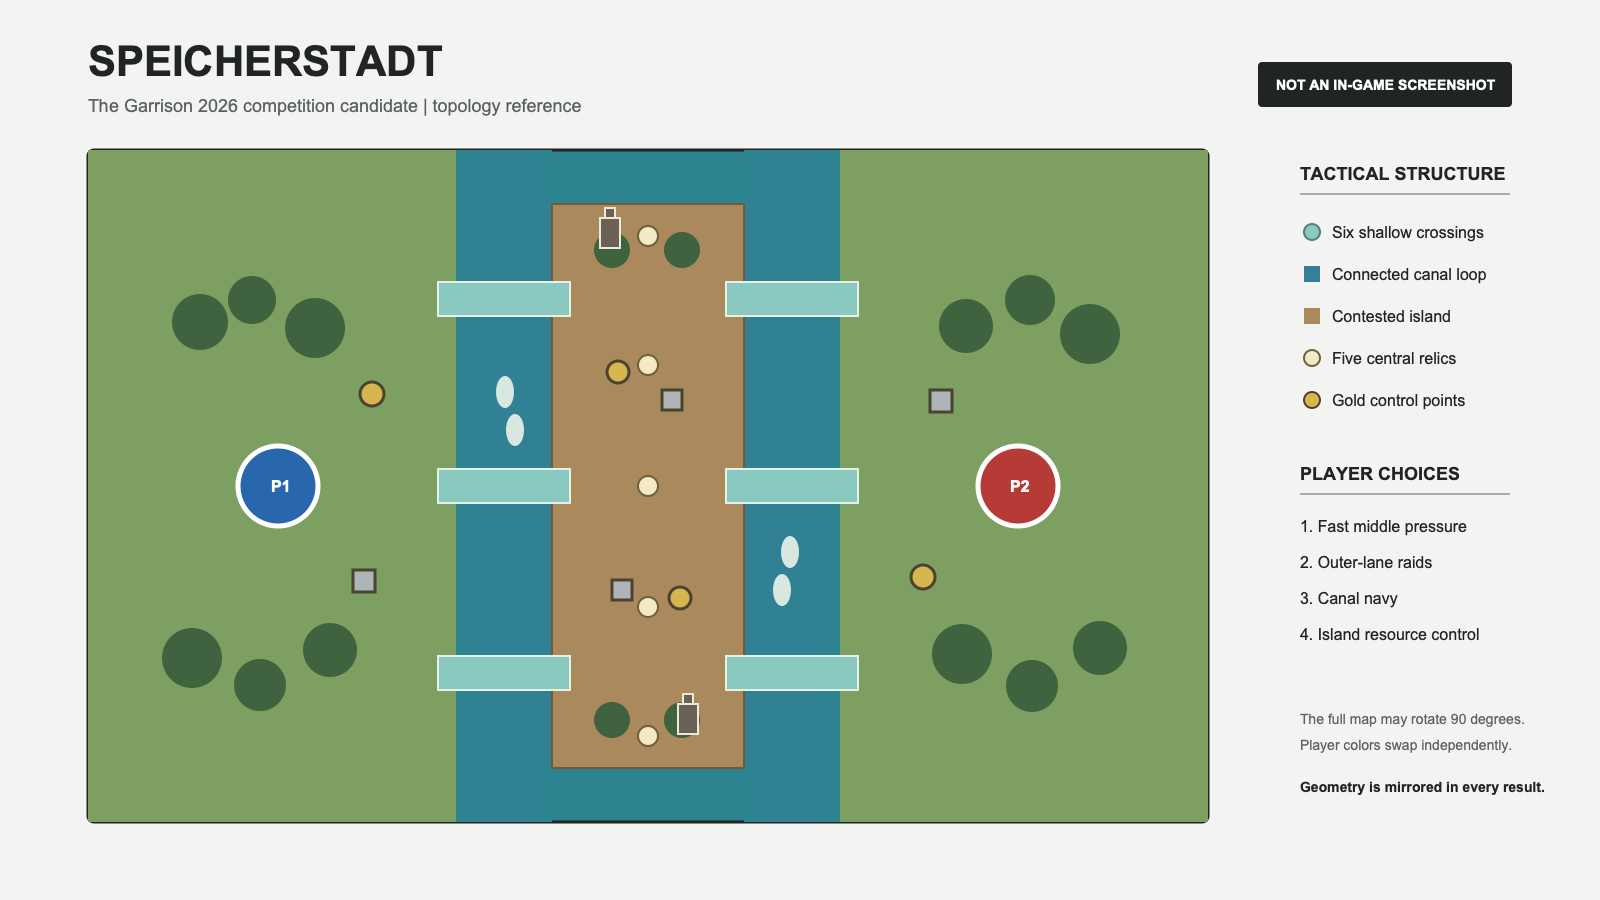
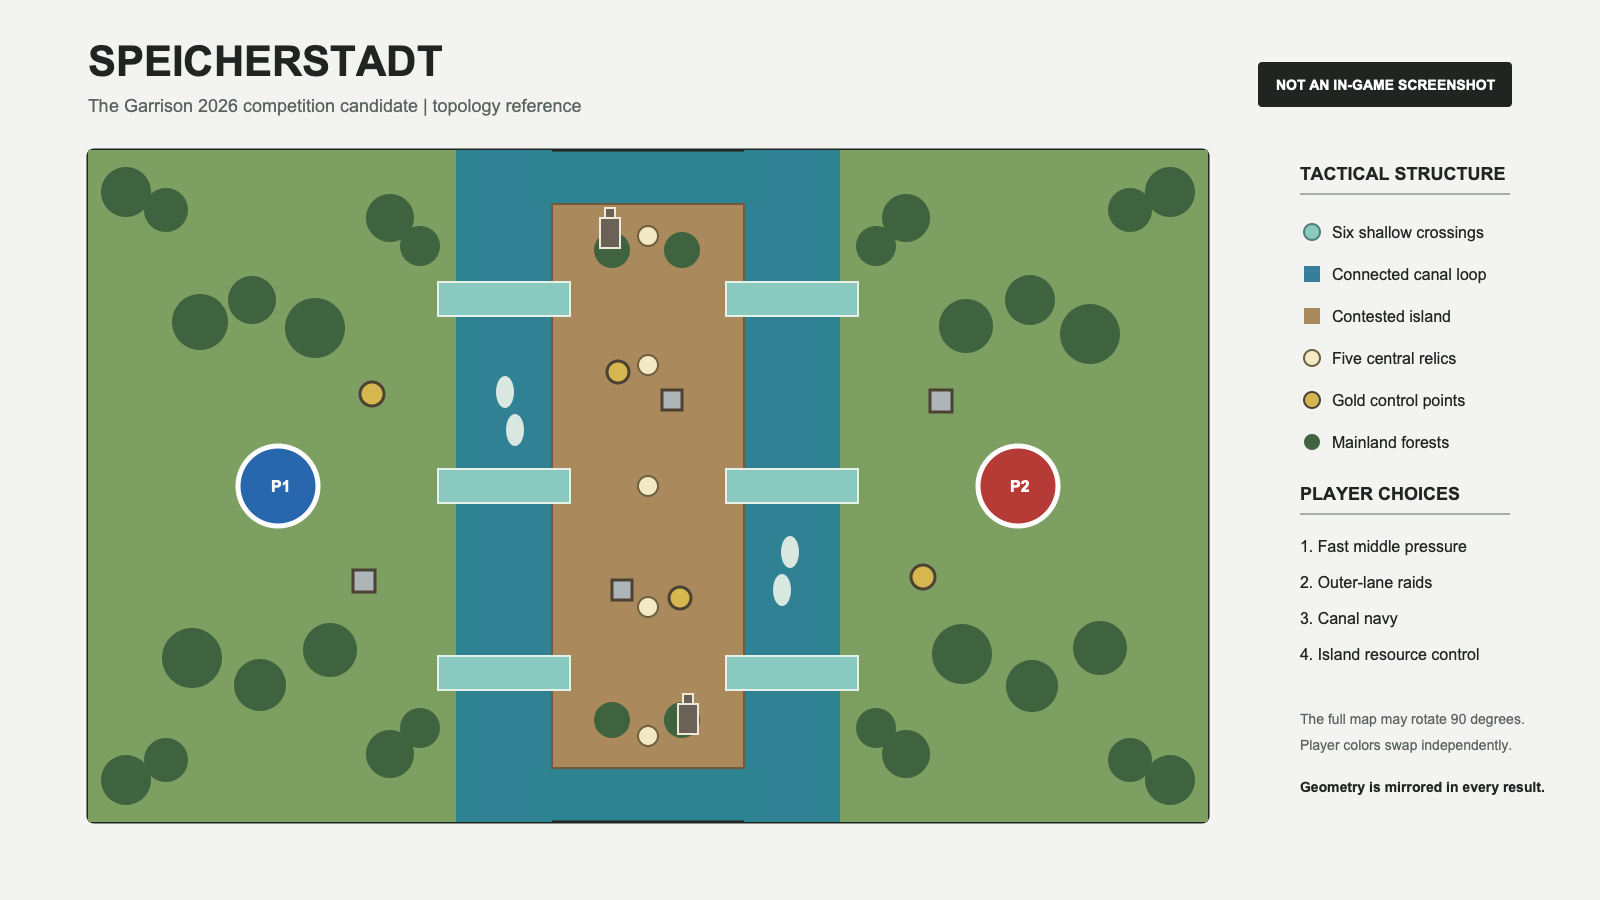
Populate the mainland with balanced forests

diff --git a/submission/validation-report.md b/submission/validation-report.md
@@ -1,18 +1,19 @@
 # Static Validation Report
 
-Candidate: Speicherstadt v0.3.0
+Candidate: Speicherstadt v0.4.0
 Checked: 2026-08-05
[2 lines of base64/hex data omitted]
 
 ## Map-Specific Validator
 
 `node tools/validate-rms.mjs` passes. It checks the section and control
 structure, exact transposed geometry, six crossing rectangles, non-overlapping
 land-origin squares, `border_fuzziness 100` on every constrained land, flat
-elevation, twelve dedicated zone-to-zone seam connections, explicit 9-villager
-start, three equal 58-tree home woodlines, mandatory five-relic placement,
-object/resource totals, actor-area references, land confinement, neutral
-ownership, and the competition's prohibited mechanics.
+elevation, four mirrored 90-tile corner forests, the 16-clump distributed
+forest pass, twelve dedicated zone-to-zone seam connections, explicit
+9-villager start, three equal 58-tree home woodlines, mandatory five-relic
+placement, object/resource totals, actor-area references, land confinement,
+neutral ownership, and the competition's prohibited mechanics.
 
 ## Current RMS Grammar
 
@@ -50,5 +51,7 @@ restored the recognizable two-canal layout, but screenshots exposed water seams
 between crossings and banks, only 90 home trees, and four placed relics instead
 of five. Version 0.3.0 removes detached decorative road lands, gives every
 crossing a dedicated zone and four explicit seam connections, raises home wood
-to 180 trees, and makes five relics mandatory with reduced spacing. Its in-game
-retest, full seed matrix, and match checks remain pending.
+to 180 trees, and makes five relics mandatory with reduced spacing. Version
+0.4.0 additionally reserves a 90-tile forest in every geometric corner and
+generates 7% more player-ground forest in 16 clumps. Its in-game retest, full
+seed matrix, and match checks remain pending.

diff --git a/README.md b/README.md
@@ -3,12 +3,12 @@
 `Speicherstadt` is a 1v1 hybrid Random Map submission candidate for **The
 Garrison 2026 map competition**. It is designed by betwixtX with OpenAI Codex.
 
-**Current status:** v0.3.0 runtime correction pending an in-game retest and
-authentic AoE2 DE screenshots. Version 0.2.0 confirmed the intended large-scale
-layout, but separate crossing lands left water seams at their banks, its 90
-home trees were insufficient, and only four of five relics placed. Version
-0.3.0 explicitly connects every crossing join, doubles home wood, and makes all
-five central relics mandatory.
+**Current status:** v0.4.0 runtime correction pending an in-game retest and
+authentic AoE2 DE screenshots. Version 0.3.0 repaired the crossing joins and
+made all five central relics mandatory, but its player-relative tree groups
+still left the large outer districts and map corners barren. Version 0.4.0
+keeps the equal home woodlines and adds fixed corner forests plus distributed
+mainland forest terrain.
 
 ## Concept
 
@@ -33,8 +33,10 @@ player colors between sides. The geometry remains mirrored in every result.
 - Quick-start resources: -30 starting wood and -100 starting food
 - Per player: 8 sheep, 2 boar, 4 deer, 6 berries
 - Per player mines: 7+4+4 gold and 5+4 stone
-- Per player wood: 180 guaranteed oak trees, including three equal 58-tree
-  woodlines in different exposure profiles
+- Per player home wood: 180 guaranteed oak trees, including three equal
+  58-tree woodlines in different exposure profiles
+- Mainland wood: two fixed 90-tile corner forests per side plus a 7% forest
+  pass split into 16 clumps across the player districts
 - Per player water: 4 shore fish and 6 deep fish
 - Neutral island: four 3-tile golds, two 4-tile stones, 5 relics, and 48 trees
 - Flat elevation across all six crossings

diff --git a/submission/runtime-test-checklist.md b/submission/runtime-test-checklist.md
@@ -4,9 +4,11 @@ Static parsers cannot prove that AoE2 DE will generate, place, and path every
 object correctly. Complete this checklist in the same current game build that
 will be used for the submission.
 
-Test v0.3.0 or newer. Version 0.1.0 failed its large-scale topology. Version
+Test v0.4.0 or newer. Version 0.1.0 failed its large-scale topology. Version
 0.2.0 restored the intended layout, but screenshot testing found water seams at
 the crossing banks, insufficient home wood, and only four of five relics.
+Version 0.3.0 repaired the joins and relic placement constraints, but still
+left the outer mainland and all four map corners almost completely empty.
 
 ## Required Lobby
 
@@ -48,6 +50,8 @@ color assignments.
   home stone.
 - Each player has three 58-tree home woodlines and six TC stragglers, for 180
   home trees total.
+- Each player side has two fixed corner forests, and additional forest clumps
+  are distributed through the outer mainland. No map corner is barren.
 - Each home canal has 4 shore fish and 6 deep fish.
 - The island has 12 gold, 8 stone, exactly 5 visible relics, four wood clusters,
   and two church ruins.

diff --git a/submission/screenshots/README.md b/submission/screenshots/README.md
@@ -8,7 +8,7 @@ reference or AI-generated art.
 - Generate with All Visible and pause immediately.
 - Capture or stitch the complete map without lobby or menu overlays.
 - Show both player districts, the full warehouse island, both connected canals,
-  and all six crossings.
+  all six crossings, and the forest coverage in all four map corners.
 
 ## 02-warehouse-island.png
 
